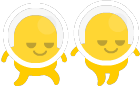
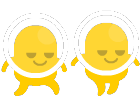
Wyrównaj rozmiar żółtej postaci do reszty skinów i uprość opisy
- assets/player/alien_yellow(.png/_walk.png) - źródłowe klatki alienYellow
  z paczki były konsekwentnie o 10px NIŻSZE niż beige/green/pink w każdej
  pozie (stand 82 vs 92, walk1 83 vs 93, walk2 86 vs 96 - mniej marginesu
  nad hełmem w oryginalnym pliku, nie inna postać). Przy renderowaniu do
  tej samej wysokości docelowej (PLAYER_SPRITE_HEIGHT) dawało to złotemu
  skinowi ~12% większą szerokość niż reszcie - gear (kask/plecak/buty)
  wygladał nieproporcjonalnie duży/przesunięty względem sylwetki. Klatki
  dopełnione 10px przezroczystości u góry (postać zostaje zakotwiczona przy
  dole, stopy się nie ruszają) - teraz identyczne proporcje 66x92/70x96 co
  pozostałe 3 ciała i domyślny sprite.
- economy.js: opisy skinów z body ("Inna postać - ...") upraszczone z
  powrotem do samego opisu koloru - stwierdzanie wprost "to inna postać"
  było zbędne, gracz i tak to widzi.

Claude-Session: https://claude.ai/code/session_016pZN1m6egJcn9qGqfzzN9N

diff --git a/js/economy.js b/js/economy.js
@@ -781,14 +781,14 @@ const PLAYER_SKINS = [
   // używane jako awaryjny kolor kółka/proceduralnej sylwetki, zanim sprite
   // się wczyta (patrz ui.js SkinsPanel/_drawProcedural w tym pliku) - dla
   // skinów Z tint ten sam cel spełnia samo pole tint, previewColor zbędne.
-  { id: 'verde', name: 'Zielony', desc: 'Inna postać - natywna zieleń paczki, zero wpływu na rozgrywkę', tint: null, body: 'green', previewColor: '#5FBF7A', cost: 2 },
-  { id: 'crimson', name: 'Czerwony', desc: 'Inna postać, przebarwiona na czerwono - zero wpływu na rozgrywkę', tint: '#E53935', body: 'pink', cost: 2 },
-  { id: 'amber', name: 'Bursztynowy', desc: 'Inna postać, przebarwiona na bursztynowo - zero wpływu na rozgrywkę', tint: '#FFB74D', body: 'beige', cost: 4 },
+  { id: 'verde', name: 'Zielony', desc: 'Kosmetyczna zmiana koloru - zero wpływu na rozgrywkę', tint: null, body: 'green', previewColor: '#5FBF7A', cost: 2 },
+  { id: 'crimson', name: 'Czerwony', desc: 'Kosmetyczna zmiana koloru - zero wpływu na rozgrywkę', tint: '#E53935', body: 'pink', cost: 2 },
+  { id: 'amber', name: 'Bursztynowy', desc: 'Kosmetyczna zmiana koloru - zero wpływu na rozgrywkę', tint: '#FFB74D', body: 'beige', cost: 4 },
   // Barwy Kryształowej Grani (patrz _bakeCrystalGroundTexture w game.js) -
   // nagroda-nawiązanie do najtrudniej dostępnej strefy, nie wymaga jednak
   // faktycznego jej odblokowania (kupowana wyłącznie za Rdzenie, jak reszta).
-  { id: 'crystal', name: 'Kryształowy', desc: 'Inna postać, w barwach Kryształowej Grani', tint: '#B388FF', body: 'pink', cost: 8 },
-  { id: 'gold', name: 'Złoty', desc: 'Inna postać - natywny złoty kolor paczki', tint: null, body: 'yellow', previewColor: '#F5C542', cost: 15 },
+  { id: 'crystal', name: 'Kryształowy', desc: 'W barwach Kryształowej Grani', tint: '#B388FF', body: 'pink', cost: 8 },
+  { id: 'gold', name: 'Złoty', desc: 'Dla tych, którzy zebrali sporo Rdzeni', tint: null, body: 'yellow', previewColor: '#F5C542', cost: 15 },
   // Wydarzenie sezonowe "Deszcz Meteorytów" (events.js) - kupowalny WYŁĄCZNIE
   // gdy trwa (sobota/niedziela wg zegara urządzenia), ale raz kupiony
   // zostaje NA STAŁE (unlockedSkins się nie zeruje) - jak każdy inny skin,

diff --git a/www/js/economy.js b/www/js/economy.js
@@ -781,14 +781,14 @@ const PLAYER_SKINS = [
   // używane jako awaryjny kolor kółka/proceduralnej sylwetki, zanim sprite
   // się wczyta (patrz ui.js SkinsPanel/_drawProcedural w tym pliku) - dla
   // skinów Z tint ten sam cel spełnia samo pole tint, previewColor zbędne.
-  { id: 'verde', name: 'Zielony', desc: 'Inna postać - natywna zieleń paczki, zero wpływu na rozgrywkę', tint: null, body: 'green', previewColor: '#5FBF7A', cost: 2 },
-  { id: 'crimson', name: 'Czerwony', desc: 'Inna postać, przebarwiona na czerwono - zero wpływu na rozgrywkę', tint: '#E53935', body: 'pink', cost: 2 },
-  { id: 'amber', name: 'Bursztynowy', desc: 'Inna postać, przebarwiona na bursztynowo - zero wpływu na rozgrywkę', tint: '#FFB74D', body: 'beige', cost: 4 },
+  { id: 'verde', name: 'Zielony', desc: 'Kosmetyczna zmiana koloru - zero wpływu na rozgrywkę', tint: null, body: 'green', previewColor: '#5FBF7A', cost: 2 },
+  { id: 'crimson', name: 'Czerwony', desc: 'Kosmetyczna zmiana koloru - zero wpływu na rozgrywkę', tint: '#E53935', body: 'pink', cost: 2 },
+  { id: 'amber', name: 'Bursztynowy', desc: 'Kosmetyczna zmiana koloru - zero wpływu na rozgrywkę', tint: '#FFB74D', body: 'beige', cost: 4 },
   // Barwy Kryształowej Grani (patrz _bakeCrystalGroundTexture w game.js) -
   // nagroda-nawiązanie do najtrudniej dostępnej strefy, nie wymaga jednak
   // faktycznego jej odblokowania (kupowana wyłącznie za Rdzenie, jak reszta).
-  { id: 'crystal', name: 'Kryształowy', desc: 'Inna postać, w barwach Kryształowej Grani', tint: '#B388FF', body: 'pink', cost: 8 },
-  { id: 'gold', name: 'Złoty', desc: 'Inna postać - natywny złoty kolor paczki', tint: null, body: 'yellow', previewColor: '#F5C542', cost: 15 },
+  { id: 'crystal', name: 'Kryształowy', desc: 'W barwach Kryształowej Grani', tint: '#B388FF', body: 'pink', cost: 8 },
+  { id: 'gold', name: 'Złoty', desc: 'Dla tych, którzy zebrali sporo Rdzeni', tint: null, body: 'yellow', previewColor: '#F5C542', cost: 15 },
   // Wydarzenie sezonowe "Deszcz Meteorytów" (events.js) - kupowalny WYŁĄCZNIE
   // gdy trwa (sobota/niedziela wg zegara urządzenia), ale raz kupiony
   // zostaje NA STAŁE (unlockedSkins się nie zeruje) - jak każdy inny skin,
